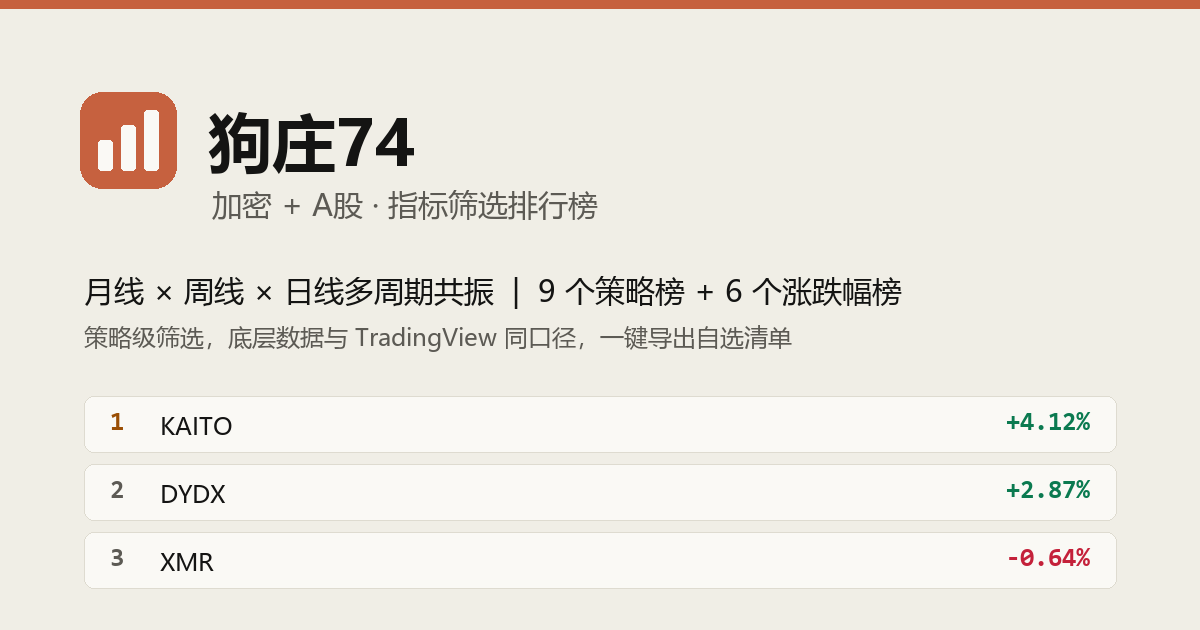
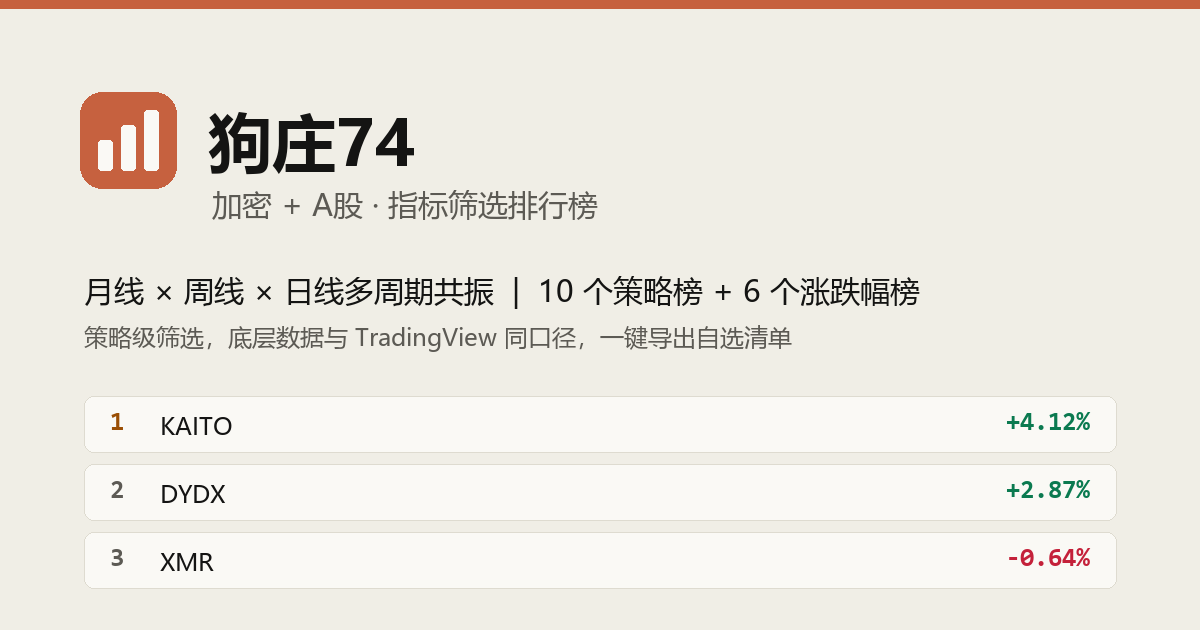
加密新增第 9 个策略榜 weeklySarUptrend「周线SAR多头」⇒ 加密 12、全站 16
站长「新增一个TAB，逻辑：最新已收盘的周线是SAR多头即可」（没点资产 ⇒ 加密）。
1 个条件、纯周线 SAR 多头全集，命中 106。轴一根没加（沿用 17 轴 cryptoStrategySorts）。

⚠⚠ 本榜引入三对结构性严格包含：①monthlyWeeklyDaily / ②weeklyEmaSarBull /
⑦weeklySarBearish 都以「周线 SAR 多头」为条件之一 ⇒ 全都 ⊊ 本榜 ⇒「站内没有任何
一对结构性包含的 live 榜」作废（同一教训第三次应验：阴K/互斥/包含）。严格子集但不
取代（①②⑦ 量级差一个数量级、语义各异、站长说新增）。周线榜由此变五个。

key 刻意不复用已移除的 weeklyEmaBearish（判据虽命中它第三版但名字误导 + 复用价值为
零）、也不用 weeklySarBull（与 weeklyEmaSarBull 危险近亲），现名与字段 sarUptrend 同名。

- TABS_CONFIG + TAB_GROUPS 各加一条；顶部注释/meta/FAQ 榜数 15→16、加密 8→9 策略榜
- 就地改掉三处「站内没有任何一对结构性包含」（TABS_CONFIG ② + TAB_GROUPS 头部两处）
- og.png 重跑（10 策略榜 + 6 涨跌幅榜）；script.js?v=236
- weeklyEmaGap 可正可负（本榜不看 EMA，同 ⑦⑧）

Changed region(s): [[0.4317, 0.4222, 0.7708, 0.4825]]

diff --git a/script.js b/script.js
@@ -524,11 +524,13 @@ const TABS_CONFIG = {
     // ② **周线 EMA9/21 扩张 且 SAR 多头（2 个条件，都在周线）** —— 2026-07-30 站长新增。
     // 就是同日移除的「周线SAR多头」槽位的第二版判据（2026-07-26 指令③），但**是新榜**（key
     // 全新）：站长要"扩张 + SAR"两条都要。命中比"纯周线 SAR 多头"少得多。
-    // ⚠ **2026-08-16 起是站内唯一的周线榜**（同样蕴含「周线 SAR 多头」的
-    // `weeklySarSecondBar` 已移除）。
-    // ⚠⚠ **它曾是 `weeklyEma921Expansion`（2026-08-12 移除）的严格子集** —— 那对包含关系
-    //   随对家消失；连同同日移除的 `monthlyWeeklySar` 带走的另一对 ⇒ **站内现已没有任何
-    //   一对结构性包含的 live 榜**。别再照旧注释找"那两对"。
+    // ⚠ 周线榜历轮增删：08-16 一度只剩本榜，同日稍后 + `weeklyTripleEma`/`weeklySarBearish`、
+    // 08-18 + `weeklyTwoBullExact`、**08-19 + `weeklySarUptrend`** ⇒ **现为五个**（别照
+    // 「唯一的周线榜」旧注释读）。
+    // ⚠⚠ **本榜 2026-08-19 起 ⊊ ⑨`weeklySarUptrend`（纯周线SAR多头全集）** —— 本榜 ＝ ⑨ ∩
+    //   9/21扩张。此前它曾 ⊊ `weeklyEma921Expansion`（2026-08-12 移除对家、包含关系随之消失），
+    //   连同同日移除 `monthlyWeeklySar` 带走的另一对 ⇒ 08-12～08-19 站内是"零对"。**那句"没有
+    //   任何一对结构性包含"自 ⑨ 上线起作废**（站内现有 ①②⑦ 各 ⊊ ⑨ 三对，别再照旧注释找）。
     // 行 payload 走后端唯一的 `_strategy_row` ⇒ **17 轴的 cryptoStrategySorts**（五个榜共用；
     // 建榜时是 13 轴的 cryptoWeeklyExpansionSorts，2026-07-30 轴数对齐后并入）。
     // ⚠ 显示名写「9/21扩张」不写「两线扩张」：后者是 (9/21 ∪ 9/26) 并集的专称，本榜是严格 9/21。
@@ -615,6 +617,19 @@ const TABS_CONFIG = {
     // ⚠ **别为"连阳/K 线形态"加轴**（布尔值排不了序，同阴K/SAR 不设轴的在案先例）；
     //   17 轴照旧、与本族其余各榜共用同一个 sorts 对象。
     weeklyTwoBullExact: { sorts: cryptoStrategySorts, subFormat: (v, sf) => axesSub(v, sf, "日成交额") },
+
+    // ⑨ 周线SAR多头（2026-08-19 站长「最新已收盘的周线是SAR多头即可」）—— **1 个条件，
+    //   全在周线**：`sarUptrend is True`。就是站内"周线 SAR 多头"**全集**（= ⑦ 去掉阴K =
+    //   ② 去掉 9/21扩张）。纯 build 层、17 轴照旧、与本族其余各榜共用同一个 sorts 对象。
+    // ⚠⚠⚠ **本榜引入三对结构性严格包含 ⇒「站内没有任何一对结构性包含」当场作废**：
+    //   ①`monthlyWeeklyDaily`、②`weeklyEmaSarBull`、⑦`weeklySarBearish` 都以「周线 SAR 多头」
+    //   为条件之一 ⇒ ①②⑦ 全都 ⊊ 本榜。**本文件里那几处写着"站内没有任何一对结构性包含的
+    //   live 榜"的注释已就地改掉**（下方 TAB_GROUPS 两处 + 上方 monthlyWeeklyDaily 那段）。
+    //   —— 这是「『站内已经没有 X 了』下一条指令就把 X 加回来」的第三次应验（阴K/互斥/包含）。
+    // ⚠ 严格子集但**不该取代**：①②⑦ 量级差一个数量级、语义各异、站长说"新增"⇒ 并列是对的。
+    // ⚠ 行里 `weeklyEmaGap` **可正可负**（本榜不看 EMA，同 ⑦⑧）—— 别照 ②⑥ 抄"恒为正"。
+    // ⚠ **别为 SAR 加轴**（布尔值排不了序，同 ①④⑦ 先例）；门槛 ≥3 根周 K（同 ⑦⑧ 最低）。
+    weeklySarUptrend: { sorts: cryptoStrategySorts, subFormat: (v, sf) => axesSub(v, sf, "日成交额") },
 
 
     // === A股：唯一的单策略榜（2026-07-24 站长定版，2026-07-29 / 2026-08-16 两次改判据）===
@@ -728,22 +743,28 @@ const TAB_GROUPS = [
         // + 一个纯 SAR 三级共振"状态"型榜（①）+ 一个纯 EMA 结构"状态"型榜（⑥ 周线三线
         // 张开，完全不看 SAR 也不看资金）+ **一个"找回调"榜（⑦ 周线阴K＋SAR多头，站内
         // 唯一要求阴K 的榜、也是唯一反过来问"哪些在强势里回踩"的榜）**
-        // + **一个纯 K 线形态榜（⑧ 周线两连阳第二根，站内唯一不看任何指标、只数阴阳的榜）**。
-        // ⚠ **周线榜现为四个（②⑥⑦⑧），两两互不包含**：②⑥ 都蕴含周线 9/21 扩张（② 再加
-        // SAR 门、⑥ 再加 EMA55 档）；②⑦ 都蕴含周线 SAR 多头（② 再加扩张、⑦ 再加阴K，
-        // 60 周回放两个方向 0/60、反例 2814 + 729 人次 ⇒ 结构性独立）；⑥⑦ 更无交集条件；
-        // **⑧ 完全不看 EMA/SAR，与 ②⑥ 两个方向都不包含（60 周回放反例 1782/681、1869/249）**。
-        // ⇒ 「站内没有任何一对结构性**包含**的 live 榜」继续成立。
-        // ⚠⚠ **但"没有任何一对结构性互斥"那句 2026-08-18 起不成立了**：⑦ 要求当根周 K 阴、
-        // ⑧ 要求当根周 K 阳 ⇒ **交集恒为空**（60 周回放 0/60 违规），是站内重新出现的第一对。
-        // **互斥 ≠ 包含，两句话别混。**
+        // + **一个纯 K 线形态榜（⑧ 周线两连阳第二根，站内唯一不看任何指标、只数阴阳的榜）**
+        // + **一个纯 SAR 多头"状态"型全集（⑨ 周线SAR多头，2026-08-19 新增 —— ①②⑦ 都是它
+        // 的严格子集，见下方那三对结构性包含）**。
+        // ⚠ **周线榜现为五个（②⑥⑦⑧⑨，2026-08-19 加 ⑨`weeklySarUptrend`）**。②⑥⑦⑧
+        // 之间两两互不包含：②⑥ 都蕴含周线 9/21 扩张（② 再加 SAR 门、⑥ 再加 EMA55 档）；
+        // ②⑦ 都蕴含周线 SAR 多头（② 再加扩张、⑦ 再加阴K，60 周回放两个方向 0/60、反例
+        // 2814 + 729 人次 ⇒ 结构性独立）；⑥⑦ 更无交集条件；⑧ 完全不看 EMA/SAR、与 ②⑥ 两个
+        // 方向都不包含（60 周回放反例 1782/681、1869/249）。
+        // ⚠⚠⚠ **但 ⑨ 一上线，「站内没有任何一对结构性包含」当场作废**：⑨ 是周线 SAR 多头
+        // 全集，而 ①②⑦ 都以「周线 SAR 多头」为条件之一 ⇒ **①⊊⑨、②⊊⑨、⑦⊊⑨ 三对结构性
+        // 严格包含**（判据保证）。⑥⑧ 不看 SAR ⇒ 与 ⑨ 互不包含。这是「『站内已经没有 X 了』
+        // 下一条指令就把 X 加回来」的第三次应验（阴K/互斥/包含）。
+        // ⚠⚠ 互斥那句 2026-08-18 起也不成立：⑦ 要求当根周 K 阴、⑧ 要求当根阳 ⇒ 交集恒为空
+        // （60 周回放 0/60）。**互斥 ≠ 包含，两句话别混。**
         // （⑥ 上线当天 n=1 恰好落在 ② 里、穷举会报一个"包含对"——60 周回放 25 周有反例，
         // 是巧合不是结构性的，别照单日快照下结论；那对与 ⑦⑧ 无关，别当成它们引入的。）
-        // ⚠ **②⑥ 的 `weeklyEmaGap` 恒为正、⑦⑧ 可正可负**（⑦⑧ 都完全不看 EMA）—— 四个周线
-        // 榜里唯独 ⑦⑧ 不适用那条自检点，别互抄。
-        // ⚠⚠ **站内现已没有任何一对结构性包含的 live 榜**（2026-08-12 起）：此前的两对
-        // （① ⊊ `monthlyWeeklySar`、`weeklyEmaSarBull` ⊊ `weeklyEma921Expansion`）**两个
-        // 对家当天都被站长移除了**。别再照旧注释去找"那一对/那两对"。
+        // ⚠ **②⑥ 的 `weeklyEmaGap` 恒为正、⑦⑧⑨ 可正可负**（⑦⑧⑨ 都完全不看 EMA）—— 五个
+        // 周线榜里唯独 ⑦⑧⑨ 不适用那条自检点，别互抄。
+        // ⚠⚠ **站内现有三对结构性包含的 live 榜**（2026-08-19 起，全部因 ⑨ 而生：①②⑦ 各
+        // ⊊ ⑨）：此前 2026-08-12～08-19 期间是"零对"（更早的两对 ① ⊊ `monthlyWeeklySar`、
+        // `weeklyEmaSarBull` ⊊ `weeklyEma921Expansion` 的对家当天被移除）。⚠ **别照旧注释
+        // 去写"站内零对/没有任何一对包含"** —— 那句自 ⑨ 上线起作废。
         // **各榜轴集已于 2026-07-30 对齐成同一套**（2026-08-12 加「日涨跌幅」后为 17 轴）。
         label: "加密策略", asset: "加密", tf: "月线",
         tabs: [
@@ -857,6 +878,21 @@ const TAB_GROUPS = [
             // 一个条件 ⇒ 名字里无 ＋。
             { key: "weeklyTwoBullExact", name: "周线两连阳第二根", tf: "周线",
               desc: "只有一个条件，看的是最新已收盘的那根周线：它是一段两连阳里的第二根——这一周收阳、上一周也收阳，而再往前那一周不是阳线。也就是说这段连阳的长度恰好是二，本周刚好走完第二根。它不是「至少连涨两周」：如果眼下已经是第三根、第四根阳线，就不在这张榜上，本榜要的是刚起步的那一档。判据里既没有均线也没有 SAR，是站内唯一一张只数 K 线阴阳、不看任何指标的榜，所以它和另外三个周线榜找的完全不是一回事——本榜的成员完全可能均线还没张开、SAR 还站在空头一侧，表格里的周线EMA间距 因此可正可负，实测多数还是负的，正好对应「刚从下跌里翻上来两周、均线还没跟上」的更早期形态。它和「周线阴K＋SAR多头」那张榜永远不会出现同一个标的：一个要求这根周线收阳、一个要求收阴，同一根 K 不可能两者都是。要留意这是一张一次性的事件清单：这一周的第二根，下一周要么变成第三根、要么连阳已经断掉，所以相邻两周的名单完全没有重合，成员每周全换、偶尔出现空榜都是正常的。回放过去 60 周（口径上只统计了上市够久、能一路回溯的那批合约，所以数字比今天页面上看到的偏小），每周命中数中位在十几个，最少的一周是空的，全市场普遍反弹的那种周最多到过两百多个。另外周线数据每周一 00:00（UTC）新周线收盘后才刷新一次，同一周之内反复打开本榜，看到的标的完全一样，这是正确行为不是数据卡住了。它只需要 3 根已收盘周 K 就能判断，上市满三周的新合约就可能出现在这里——这类标的日线数据往往还不足 23 天，日线那几轴会显示「—」。范围是全部加密 USDT 永续合约。" },
+            // tf 周线：唯一的条件在周线。⚠ 2026-08-19 站长逐字：「新增一个TAB，逻辑：最新
+            // 已收盘的周线是SAR多头即可。」（没点资产 ⇒ 加密）＝ 站内"周线 SAR 多头"全集。
+            // ⚠⚠⚠ **本榜引入三对结构性严格包含**：① `monthlyWeeklyDaily`、② `weeklyEmaSarBull`、
+            // ⑦ `weeklySarBearish` 都以「周线 SAR 多头」为条件之一 ⇒ ①②⑦ 全都 ⊊ 本榜。
+            // ⇒ 上方那两处「站内没有任何一对结构性包含的 live 榜」已就地改掉。这是"『站内已经
+            // 没有 X 了』下一条指令就把 X 加回来"的第三次应验（阴K/互斥/包含）。
+            // ⚠ 严格子集但**不该取代**（子集⇒取代只针对九成保留率的双胞胎）：①②⑦ 量级差
+            // 一个数量级、语义各异、站长说"新增" ⇒ 并列是对的。周线榜由此变**五个**。
+            // ⚠ key 新建、刻意不复用已移除的 `weeklyEmaBearish`（判据虽逐字命中它第三版，但
+            // "Ema/Bearish"对纯SAR多头误导 + 复用价值为零）；也没用 `weeklySarBull`（与
+            // `weeklyEmaSarBull` 危险近亲）。现名与字段 `sarUptrend` 同名。
+            // ⚠ name：一个条件 ⇒ 无 ＋；判据无 EMA ⇒「写全 EMA 周期数」不适用（同 ⑤⑦⑧）。
+            // ⚠ 状态型 + 周内成员恒定；门槛只要 3 根周 K（同 ⑦⑧ 最低）；weeklyEmaGap 可正可负。
+            { key: "weeklySarUptrend", name: "周线SAR多头", tf: "周线",
+              desc: "只有一个条件，看的是最新已收盘的那根周线：它的 Parabolic SAR 站在多头一侧，也就是圆点已经翻到价格下方。这是站内所有「用到周线 SAR 多头」的榜里最宽的一张——它就是「周线 SAR 处于多头」的全部标的，不再叠加任何别的门槛。站内另外三张榜其实都是在它的基础上再收一道：「月线SAR × 周线SAR × 日线SAR」是在它之上再要求月线和日线的 SAR 也多头，「周线9/21扩张＋SAR多头」是再要求均线正在张开，「周线阴K＋SAR多头」是再要求这一周收阴，所以那三张的成员都一定在本榜里、只是各自更少更专。它找的是最朴素的一件事：这个标的按周计的方向，眼下站在多头这一侧。它是一张状态清单不是事件清单——SAR 多头是能连续维持很多周的状态，所以同一个标的可以连着好几周都在，历来也是站内命中数最大的一类。用它当宽口径的候选池、再靠排序条按周ADX 或周MACD强弱 挑力度，或者切到日线各轴看短周期是否也跟上，都比直接看更专的那三张多留了一批「方向已经朝上、但还没叠上额外条件」的早期标的。要留意它完全不看均线，所以表格里的周线EMA间距 可正可负，负值正对应「SAR 已经翻多、但 9 与 21 两条均线还没张开」的更早期形态。另外周线数据每周一 00:00（UTC）新周线收盘后才刷新一次，同一周之内反复打开本榜，看到的标的完全一样，这是正确行为不是数据卡住了。它只需要 3 根已收盘周 K 就能判断，是全站门槛最低的周线榜之一，上市满三周的新合约就可能出现在这里——这类标的日线数据往往还不足 23 天，日线那几轴会显示「—」。范围是全部加密 USDT 永续合约。" },
         ],
     },
     // === A股（2026-07-24 站长定版「A股只保留这个TAB」，2026-07-29 改判据 + 加三个涨跌幅榜）===

diff --git a/index.html b/index.html
@@ -92,8 +92,14 @@
          **两天内应验第二次**，这次翻的是"互斥"不是"阴K"。
          ⚠ 本轮还是今年少见的"真动 compute 层"：新增周线字段 `twoBullExact` ⇒ 后端
          WEEKLY_CACHE_SCHEMA 17→18（站内没有任何既有字段能表达"恰好 2 连阳"）。
-         全站现为 **15 个榜**：加密 11（3 涨跌幅 + **8** 策略）、A股 4（3 涨跌幅 + 1 策略）。 -->
-    <meta name="description" content="加密永续合约的日线/周线/月线涨跌幅榜，加八个多周期趋势榜（月/周/日 SAR 三级共振、周线 9/21 扩张＋SAR 多头、日线 9/21/55 扩张＋CVD 递增、日线 9/21 扩张＋SAR 多头首根、月线 SAR 多头首根、周线 9/21/55 扩张、周线阴K＋SAR 多头、周线两连阳第二根），另有 A 股的日/周/月收盘涨跌幅榜与周线 9/21 扩张＋SAR 多头榜，随收盘自动更新，一键导出自选清单；另附永续合约全市场情绪概览。">
+         ➕ 2026-08-19 **新增**「周线SAR多头」`weeklySarUptrend`（站长「最新已收盘的周线是
+         SAR多头即可」，没点资产 ⇒ 加密；1 个条件、纯周线 SAR 多头全集）。三处又一起改了
+         （加密 11→12、全站 15→16；排序轴仍没动，加密 17 / A股 16；纯复用既有字段、零 schema）。
+         ⚠⚠ 本榜是「周线 SAR 多头」全集，而月/周/日三级共振、周线9/21扩张＋SAR、周线阴K＋SAR
+         三个榜都以「周线 SAR 多头」为条件之一 ⇒ **它们全是本榜的严格子集** ⇒ **「站内没有任何
+         一对结构性包含的 live 榜」那句话也作废了**（同一条教训第三次应验，这次翻的是"包含"）。
+         全站现为 **16 个榜**：加密 12（3 涨跌幅 + **9** 策略）、A股 4（3 涨跌幅 + 1 策略）。 -->
+    <meta name="description" content="加密永续合约的日线/周线/月线涨跌幅榜，加九个多周期趋势榜（月/周/日 SAR 三级共振、周线 9/21 扩张＋SAR 多头、日线 9/21/55 扩张＋CVD 递增、日线 9/21 扩张＋SAR 多头首根、月线 SAR 多头首根、周线 9/21/55 扩张、周线阴K＋SAR 多头、周线两连阳第二根、周线 SAR 多头），另有 A 股的日/周/月收盘涨跌幅榜与周线 9/21 扩张＋SAR 多头榜，随收盘自动更新，一键导出自选清单；另附永续合约全市场情绪概览。">
     <link rel="canonical" href="https://gouzhuang748.com/">
     <link rel="icon" type="image/svg+xml" href="favicon.svg">
     <!-- PWA 基础:加主屏 = 全屏 app 体验。刻意不加 Service Worker——loadData 的
@@ -273,7 +279,7 @@
         <p>加密：每小时自动抓取一次（整点后约 2 分钟），覆盖全部加密 USDT 永续合约，日线以 UTC 00:00 收盘为准；顶部的市场概览条同一节奏刷新。A股：每个交易日收盘后（约北京时间 15:05 起，待数据源发布当日数据）更新一次，覆盖全部沪深 A 股（停牌股不入榜）。</p>
         <h4>哪些免费、哪些收费？</h4>
         <p><b>免费的是加密「日线9/21/55扩张＋CVD递增」榜里排名第一的那一个标的</b>，以及顶部的市场概览条（全市场情绪、涨跌家数、总成交额、资金费率）。这两块永久免费、不需要通行证。</p>
-        <p><b>两个市场的榜单本身需要购买通行证解锁</b>——加密有三个涨跌幅榜（日线 / 周线 / 月线，全市场无筛选）和八个策略榜（月/周/日 SAR 三级共振、周线 9/21 扩张＋SAR 多头、日线 9/21/55 扩张＋CVD 递增、日线 9/21 扩张＋SAR 多头首根、月线 SAR 多头首根、周线 9/21/55 扩张、周线阴K＋SAR 多头、周线两连阳第二根），A 股有三个涨跌幅榜（日 / 周 / 月，全市场无筛选、基于收盘）和一个策略榜（周线 9/21 扩张＋SAR 多头），是本站的核心价值。无需注册账号，付款用加密货币（OxaPay），到账后通行证自动发到邮箱。</p>
+        <p><b>两个市场的榜单本身需要购买通行证解锁</b>——加密有三个涨跌幅榜（日线 / 周线 / 月线，全市场无筛选）和九个策略榜（月/周/日 SAR 三级共振、周线 9/21 扩张＋SAR 多头、日线 9/21/55 扩张＋CVD 递增、日线 9/21 扩张＋SAR 多头首根、月线 SAR 多头首根、周线 9/21/55 扩张、周线阴K＋SAR 多头、周线两连阳第二根、周线 SAR 多头），A 股有三个涨跌幅榜（日 / 周 / 月，全市场无筛选、基于收盘）和一个策略榜（周线 9/21 扩张＋SAR 多头），是本站的核心价值。无需注册账号，付款用加密货币（OxaPay），到账后通行证自动发到邮箱。</p>
         <h4>每个榜到底在筛什么？</h4>
         <p>切到任一榜单，表格上方那行说明的就是<b>这个榜在找什么样的行情</b>。策略榜各问各的问题：有的看多周期共振（月线定方向、周线定趋势、日线定入场时机，几个级别同时点头才入榜），有的只盯一个周期上的某种结构（比如周线上三条均线是不是在同时张开），还有一张反过来找回调（周线趋势没走坏、但这一周在回撤）；导航上的命中数不解锁也能看到。涨跌幅榜正相反，<b>没有任何筛选条件</b>，全市场按涨跌幅一字排开，用来先看清市场在发生什么、再进策略榜里筛。</p>
         <!-- ⚠ 2026-07-23 站长已把榜名恢复成直白命名（榜名里就写着 9/21/55、SAR、CVD），
@@ -349,6 +355,6 @@
     </ol>
 </dialog>
 
-<script src="script.js?v=235"></script>
+<script src="script.js?v=236"></script>
 </body>
 </html>
